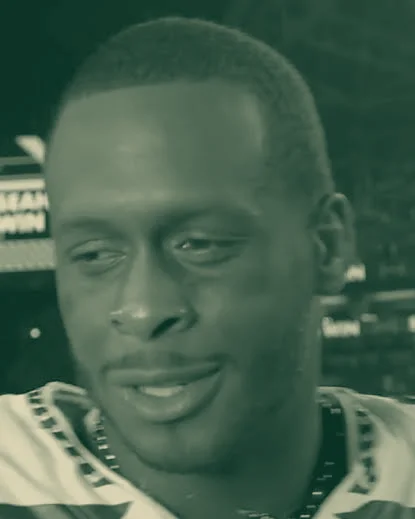
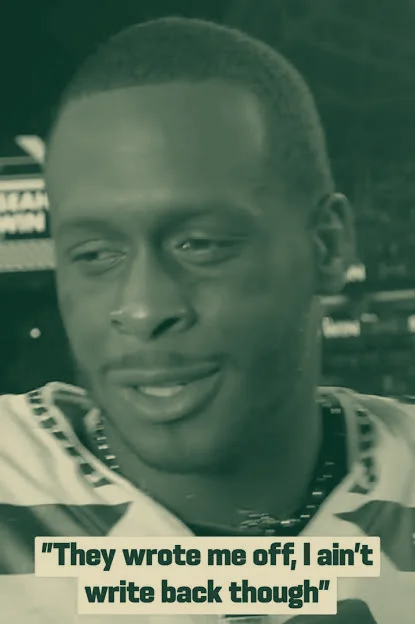
Keep Geno's "I ain't write back" quote in the Week 3 photo
Crop just below the caption banner instead of above it, so the quote prints
as a cream plate in the photo. The cover oval anchors to the top, so it
still frames just the face (landscape photos like Week 2's are unaffected).

diff --git a/app/globals.css b/app/globals.css
@@ -37,7 +37,7 @@ a { color: inherit; }
   -webkit-mask: url(/assets/engraving-bust.webp) 50% 38% / 118% auto no-repeat;
   mask: url(/assets/engraving-bust.webp) 50% 38% / 118% auto no-repeat;
 }
-.vignette.meme span { -webkit-mask: none; mask: none; background: url(/assets/meme-reaction.webp) 53% 30% / cover no-repeat; }
+.vignette.meme span { -webkit-mask: none; mask: none; background: url(/assets/meme-reaction.webp) 53% 0 / cover no-repeat; }
 .cover h1 { margin: 0; font: 900 clamp(40px, 10.4vw, 124px)/.9 var(--f-inline); letter-spacing: .02em; text-transform: uppercase; }
 .orn { position: relative; max-width: 560px; height: 9px; margin: 16px auto; border-top: 3px solid var(--cream); border-bottom: 1px solid var(--cream); }
 .orn::after { content: ""; position: absolute; left: 50%; top: 50%; width: 13px; height: 13px; background: var(--ground); border: 2px solid var(--cream); transform: translate(-50%, -50%) rotate(45deg); }
